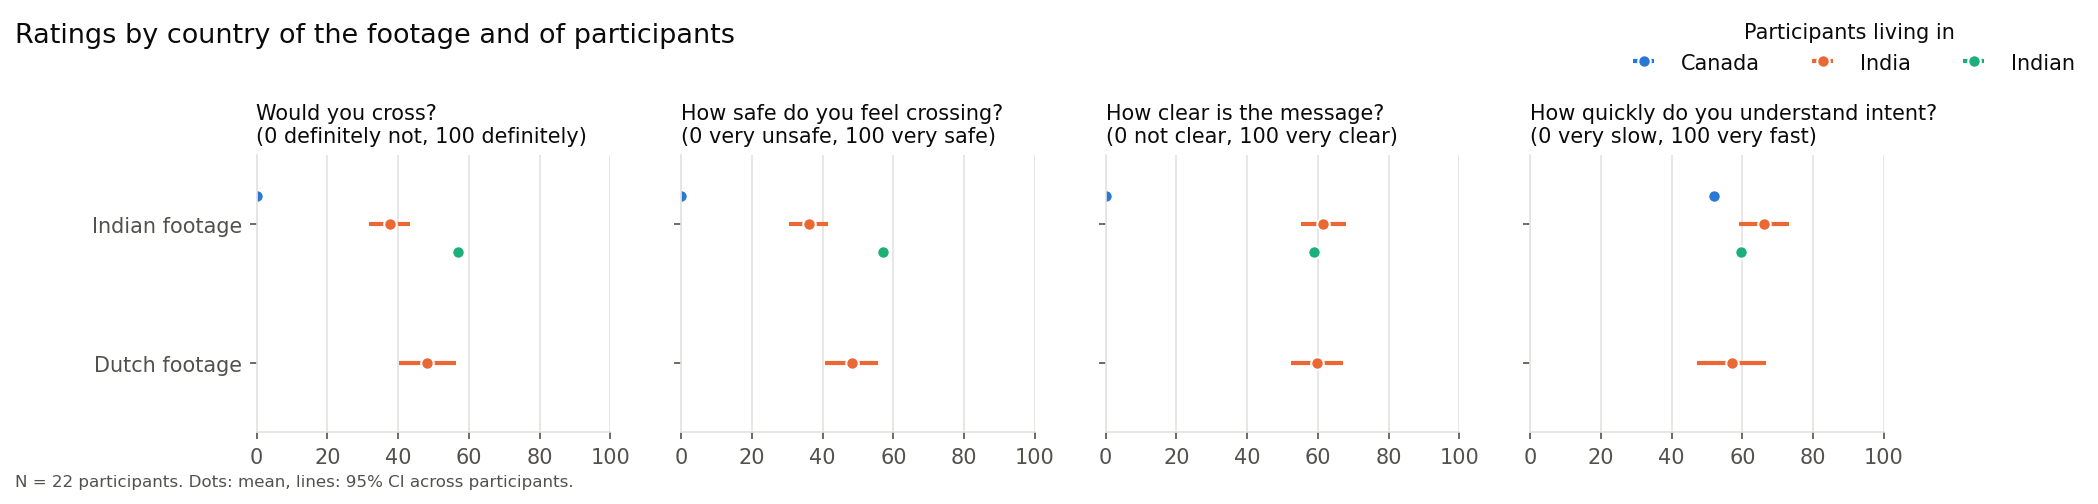
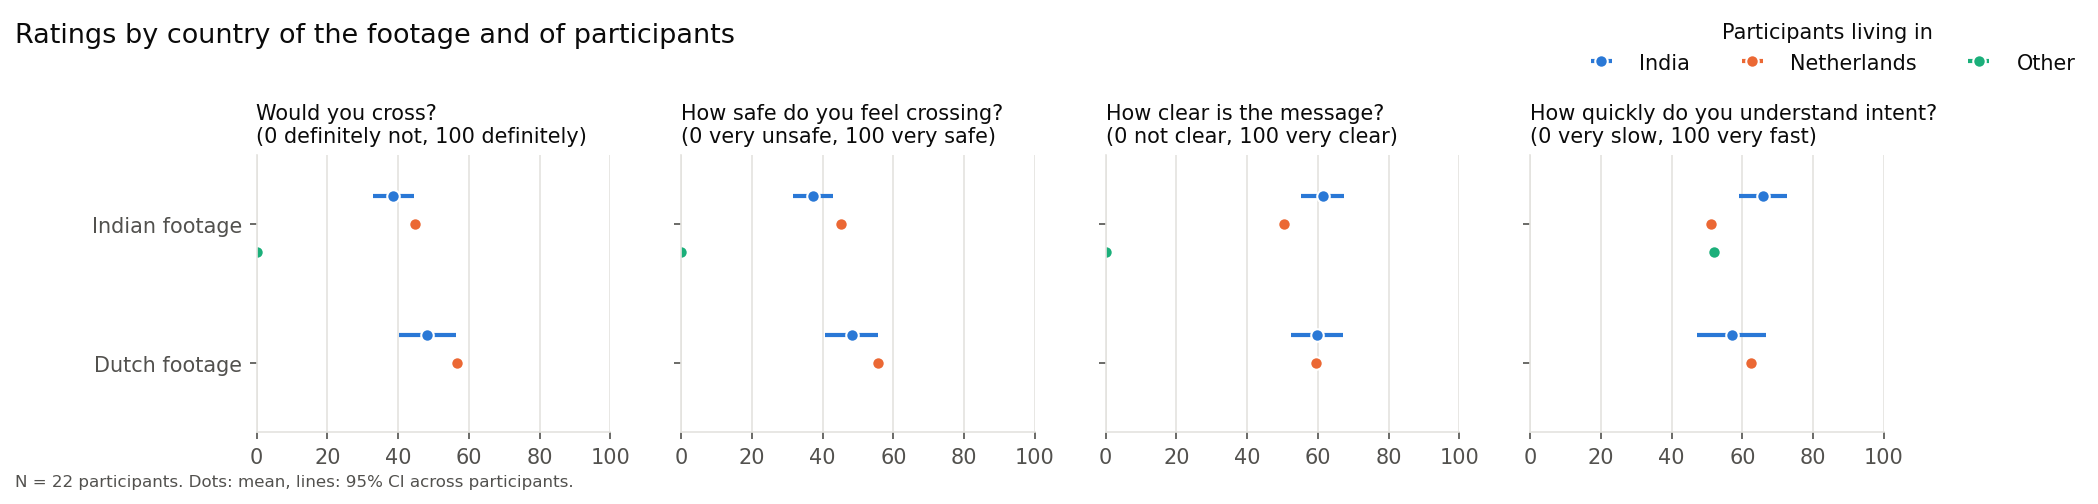
Group country of residence in the country figure
The figure took the first three residence answers in alphabetical order, so
the first participant living in the Netherlands was left out and "indian"
was a group of its own. Spellings of India and the Netherlands are now
grouped, other countries shown as Other.

diff --git a/ehmi/analysis.py b/ehmi/analysis.py
@@ -132,9 +132,22 @@ def tidy(runs):
     # local-language "go" texts: Chaliye (Hindi), Lopen (Dutch)
     answers['ehmi_group'] = answers['ehmi'].replace({'Chaliye': 'LocalGo', 'Lopen': 'LocalGo'})
     answers = answers.merge(people[['worker_code', 'country_residence']], on='worker_code')
-    answers['residence'] = answers['country_residence'].fillna('Unknown').str.strip().str.title()
+    # free-text country of residence: group spellings of India and the Netherlands, the rest as Other
+    answers['residence'] = answers['country_residence'].map(residence_group)
     gaze = pd.DataFrame(gaze, columns=['worker_code', 'image_id', 'x', 'y'])
     return people, answers, pd.DataFrame(post), gaze
+
+
+def residence_group(text):
+    """Group a free-text country of residence into India, Netherlands, Other or Unknown."""
+    t = str(text).strip().lower().replace('the ', '') if isinstance(text, str) and text.strip() else ''
+    if not t:
+        return 'Unknown'
+    if t in ('india', 'indian', 'bharat'):
+        return 'India'
+    if t in ('netherlands', 'nederland', 'holland', 'nl', 'dutch'):
+        return 'Netherlands'
+    return 'Other'
 
 
 def mean_ci(per_participant):
@@ -212,7 +225,7 @@ def fig_vehicle_distance(answers, n):
 
 def fig_country(answers, n):
     s = condition_means(answers, ['country', 'residence'])
-    groups = sorted(s['residence'].unique())[:3]  # three colours validate all-pairs; fold the rest if needed
+    groups = [g for g in ('India', 'Netherlands', 'Other') if g in set(s['residence'])]  # three colours
     fig, axes = plt.subplots(1, 4, figsize=(14, 2.4), sharey=True)
     for ax, q in zip(axes, QUESTIONS):
         for j, (grp, color) in enumerate(zip(groups, (GO, STOP, THIRD))):
